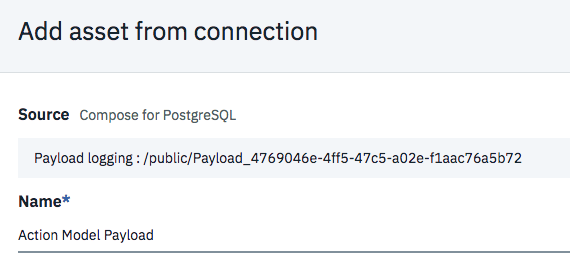
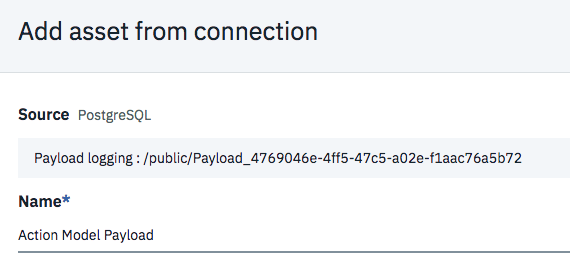
Updated postgres links/graphics

Changed region(s): [[0.1193, 0.3866, 0.4175, 0.4758]]

diff --git a/tutorial.md b/tutorial.md
@@ -10,7 +10,7 @@ takeaways:
 
 copyright:
   years: 2018
-lastupdated: "2018-10-15"
+lastupdated: "2018-10-16"
 
 ---
 
@@ -79,7 +79,7 @@ Login to your [{{site.data.keyword.Bluemix_notm}} account](https://console.bluem
 
 ### Provision a paid PostgreSQL service
 
-- If you do not already have a PostgreSQL service associated with your account, click the **Catalog** button from the top menu, filter on "postgres", and click the **Compose for PostgreSQL** tile:
+- If you do not already have a PostgreSQL service associated with your account, click the **Catalog** button from the top menu, filter on "postgres", and click the **Databases for PostgreSQL** tile:
 
   ![Compose for PostgreSQL](images/postgres.png)
   
@@ -303,7 +303,7 @@ Now that the machine learning model has been deployed, you can configure {{site.
 
 - Now add the PostgreSQL database. In your Watson Studio project, click **Add to project** and select **Connection**.
 
-- Select your PostgreSQL instance by connecting to the **Compose for PostgreSQL** service option, and providing the credentials to your service:
+- Select your PostgreSQL instance by connecting to the **Databases for PostgreSQL** service option, and providing the credentials to your service:
 
   ![Compose Service](images/compose_service.png)
   

diff --git a/getting-started.md b/getting-started.md
@@ -2,7 +2,7 @@
 
 copyright:
   years: 2018
-lastupdated: "2018-10-15"
+lastupdated: "2018-10-16"
 
 ---
 
@@ -48,7 +48,7 @@ The following is an outline of the process that is required to configure {{site.
 
     **Note**: The PostgreSQL database must be present in the same {{site.data.keyword.Bluemix_notm}} account as the {{site.data.keyword.aios_short}} instance.
 
-    - To provision a new PostgreSQL database instance, access the [**Compose for PostgreSQL** landing page ![External link icon](../../icons/launch-glyph.svg "External link icon")](https://console.bluemix.net/catalog/services/compose-for-postgresql) in {{site.data.keyword.Bluemix_notm}}.
+    - To provision a new PostgreSQL database instance, access the [**Databases for PostgreSQL** landing page ![External link icon](../../icons/launch-glyph.svg "External link icon")](https://console.bluemix.net/catalog/services/databases-for-postgresql) in {{site.data.keyword.Bluemix_notm}}.
 
 1.  A Watson Machine Learning (WML) service instance connected to your {{site.data.keyword.Bluemix_notm}} account.
 
